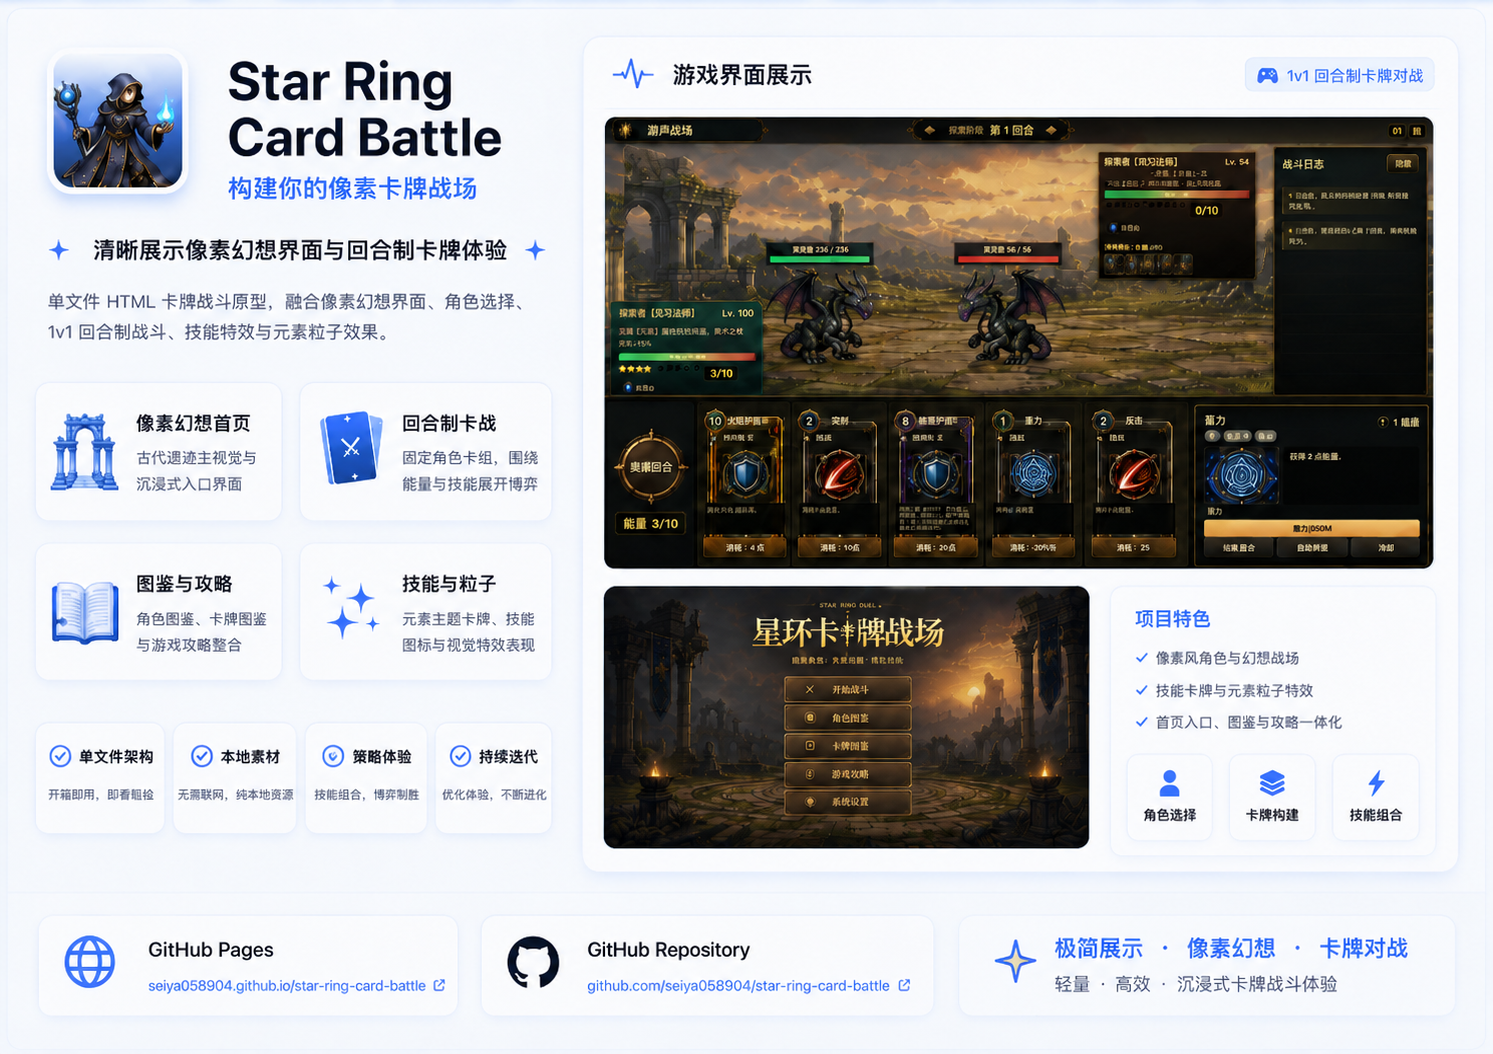
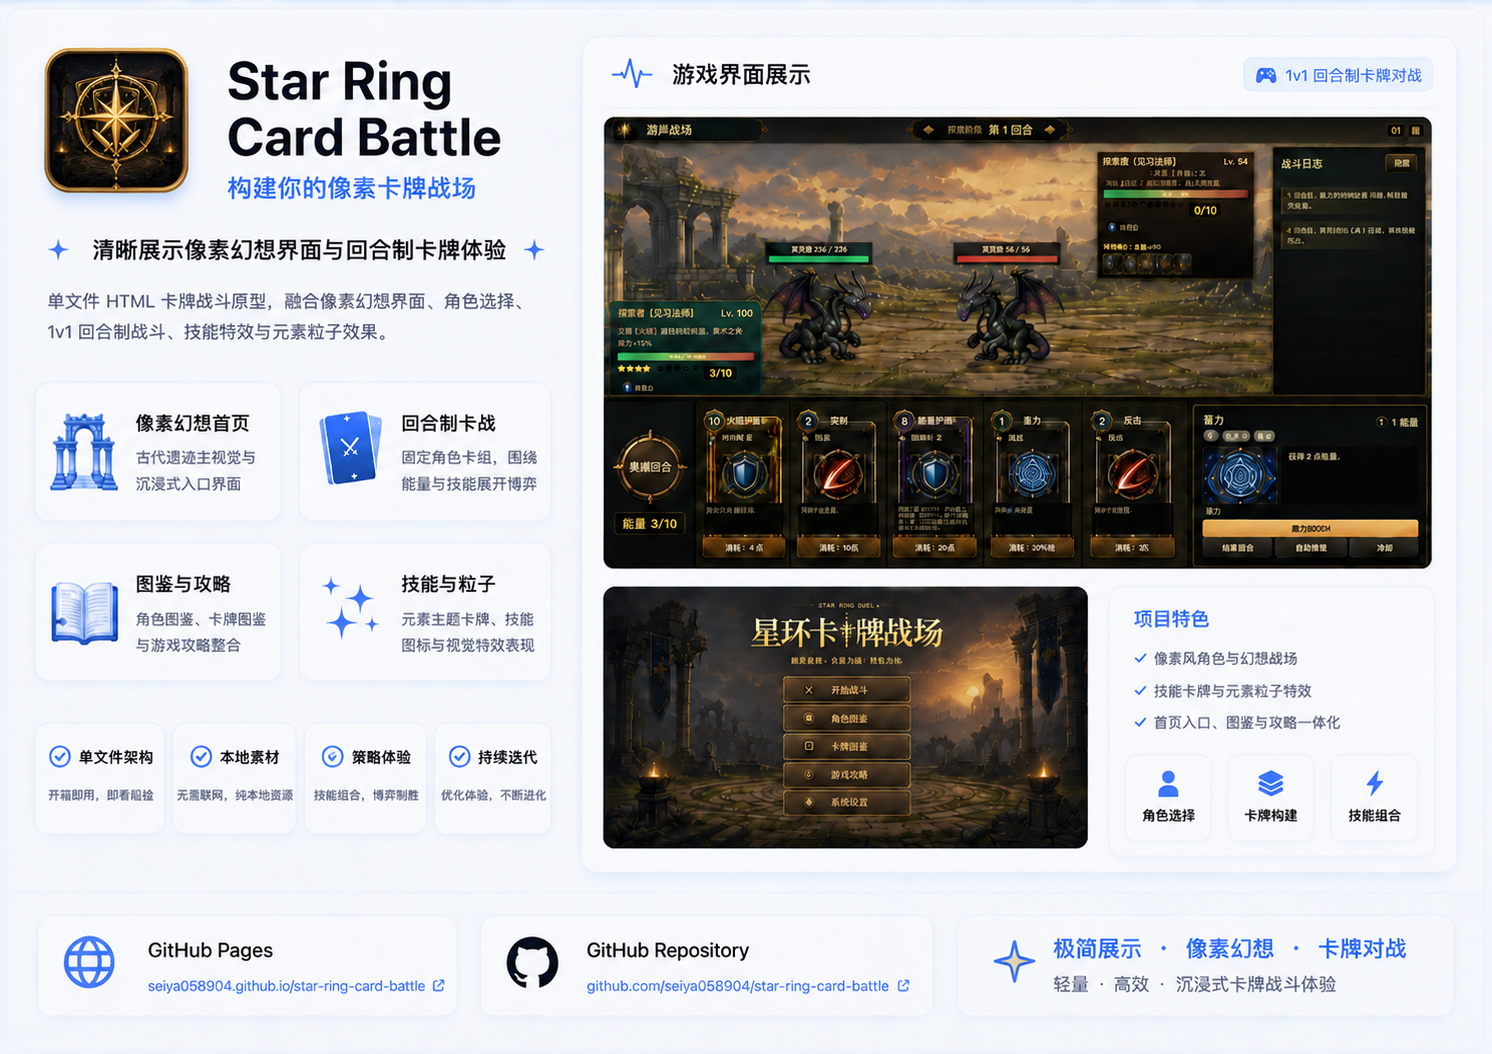
Update project links and Star Ring artwork

diff --git a/mobile.html b/mobile.html
@@ -736,7 +736,10 @@
           <div class="tags">
             <span>Android</span><span>Kotlin</span><span>JavaScript</span><span>Offline Game</span>
           </div>
-          <a class="btn btn-small" href="https://github.com/seiya058904/Relax-Block-Puzzle" target="_blank" rel="noopener noreferrer" aria-label="查看 Relax-Block-Puzzle 项目">查看项目</a>
+          <div class="card-actions">
+            <a class="btn btn-small" href="https://github.com/seiya058904/Relax-Block-Puzzle" target="_blank" rel="noopener noreferrer" aria-label="查看 Relax-Block-Puzzle GitHub 项目">查看项目</a>
+            <a class="btn btn-small" href="https://seiya058904.github.io/Relax-Block-Puzzle/" target="_blank" rel="noopener noreferrer" aria-label="查看 Relax-Block-Puzzle 页面">查看页面</a>
+          </div>
         </article>
 
         <article class="card project-card" data-like-id="project-star-ring-card-battle">

diff --git a/index.html b/index.html
@@ -789,7 +789,10 @@
             <div class="tags">
               <span>Android</span><span>Kotlin</span><span>JavaScript</span><span>Offline Game</span>
             </div>
-            <a class="btn btn-small" href="https://github.com/seiya058904/Relax-Block-Puzzle" target="_blank" rel="noopener noreferrer" aria-label="查看 Relax-Block-Puzzle 项目">查看项目</a>
+            <div class="card-actions">
+              <a class="btn btn-small" href="https://github.com/seiya058904/Relax-Block-Puzzle" target="_blank" rel="noopener noreferrer" aria-label="查看 Relax-Block-Puzzle GitHub 项目">查看项目</a>
+              <a class="btn btn-small" href="https://seiya058904.github.io/Relax-Block-Puzzle/" target="_blank" rel="noopener noreferrer" aria-label="查看 Relax-Block-Puzzle 页面">查看页面</a>
+            </div>
           </div>
         </article>
 
